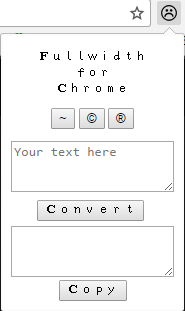
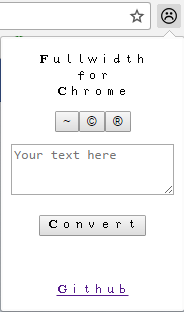
Added license. Removed copy button. Removed unnecessary functions.

diff --git a/fullw.js b/fullw.js
@@ -1,35 +1,39 @@
-const fwidth = 0xFEE0;
-
 document.addEventListener('DOMContentLoaded', function() {
-	var infield = document.getElementById('intext');
-	var outfield = document.getElementById('outtext');
+	var btnArray = ['~', '©', '®'];
+
+	var field = document.getElementById('intext');
+	var message = document.getElementById('copytext');
+	var btns = document.getElementById('specButtons');
 
     var sub = document.getElementById('fullwsub');
-    var cpy = document.getElementById('fullwcpy');
     var til = document.getElementById('til');
     var cop = document.getElementById('cop');
     var roy = document.getElementById('roy');
     
     sub.addEventListener('click', function() {
-        convert();
+        convertAndCopy(field);
+        fadeOutIn(message, 1000);
     });
-    cpy.addEventListener('click', function() {
-    	selectField(outfield);
-    })
-    til.addEventListener('click', function() {
-		addToText("~", infield);
-	});
-	cop.addEventListener('click', function() {
-		addToText("©", infield);
-	});
-	roy.addEventListener('click', function() {
-		addToText("®", infield);
-	});
+	addBtns(btns, btnArray, field);
 });
 
-function convert() {
-	var input = document.getElementById('intext').value;
-	var output = input.replace(/[\u0000-\u007F]/g, function(ch) {
+function addBtns(elem, array, intext) {
+	for (var i = 0; i < array.length; i++) { (
+		function (i) {
+			var btn = document.createElement("button");
+			var t = document.createTextNode(array[i]);
+			btn.appendChild(t);
+			elem.appendChild(btn);
+			btn.addEventListener('click', function() {
+				intext.value += array[i];
+			});
+		}) (i);
+	}
+}
+
+function convertAndCopy(elem) {
+	const fwidth = 0xFEE0;
+	elem.value = elem.value.replace(/[\u0000-\u007F]/g, function(ch) {
 		if (ch != " ") {
 			return String.fromCharCode(ch.charCodeAt(0) + fwidth);	
 		} else {
@@ -38,15 +42,20 @@ function convert() {
 		
 	});
 
-	document.getElementById('outtext').value = output;
-}
-
-function addToText(text, field) {
-	field.value += text;
-}
-
-function selectField(field) {
-	field.focus();
-	field.select();
+	elem.focus();
+	elem.select();
 	document.execCommand("Copy", true);
+	elem.blur();
+}
+
+function fadeOutIn(elem, speed ) {
+	if (!elem.style.opacity) {
+		elem.style.opacity = 1;
+	}
+	var outInterval = setInterval(function() {
+		elem.style.opacity -= 0.02;
+		if (elem.style.opacity <= 0) {
+			clearInterval(outInterval);
+		}
+	}, speed/50 );
 }

diff --git a/index.html b/index.html
@@ -14,19 +14,17 @@
 		#fullwsub {
 			margin: 5px;
 		}
+		.invisible {
+			opacity: 0;
+		}
 	</style>
 </head>
 <body>
 <p>Ｆｕｌｌｗｉｄｔｈ<br/>ｆｏｒ<br/>Ｃｈｒｏｍｅ</p>
-<p><input type="button" value="~" id="til">
-<input type="button" value="©" id="cop">
-<input type="button" value="®" id="roy"></p>
-<textarea id="intext" rows="3" placeholder="Your text here"></textarea>
-<input type="button" id="fullwsub" value="Ｃｏｎｖｅｒｔ">
-<br/>
-<textarea readonly id="outtext" rows="3"></textarea>
-<!--<input type="button" id="fullwcpy" value="Ｓｅｌｅｃｔ">-->
-<input type="button" id="fullwcpy" value="Ｃｏｐｙ">
-<p><a href="https://github.com/8lall0/aesthetic-width" target="_blank">Ｇｉｔｈｕｂ</a></p>
+<p id="specButtons"></p>
+<p><textarea id="intext" rows="3" placeholder="Your text here"></textarea></p>
+<button id="fullwsub">Ｃｏｎｖｅｒｔ</button>
+<p class="invisible" id="copytext">Ｃｏｐｉｅｄ！</p>
+<p><a href="https://github.com/8lall0/aesthetic-width" target="_blank" title="Visit Github!">Ｇｉｔｈｕｂ</a>
 </body>
 </html>
